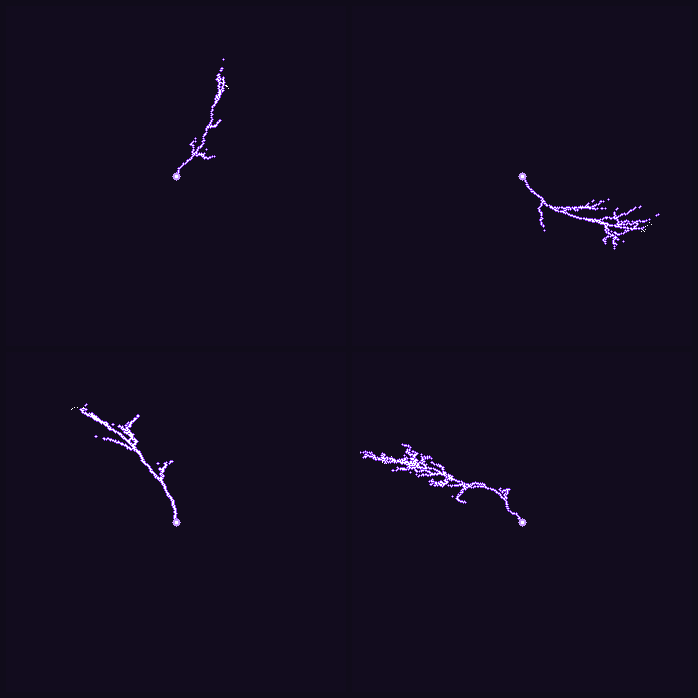
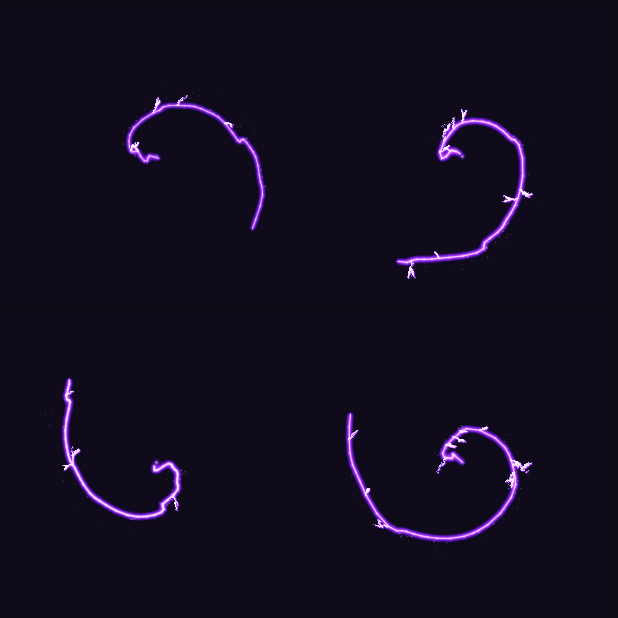
Arcane whip: organic coiling electric-fire whip (purple), continuous magical motion

diff --git a/lightning-arcane.html b/lightning-arcane.html
@@ -3,152 +3,122 @@
 <head>
 <meta charset="utf-8" />
 <meta name="viewport" content="width=device-width, initial-scale=1" />
-<title>Arcane Lightning — White/Purple Circular | pixel-art-meta</title>
+<title>Arcane Whip — Purple Electric Fire | pixel-art-meta</title>
 <style>
   html,body{margin:0;min-height:100%;color:#c9b2e8;font:13px ui-monospace,Menlo,Consolas,monospace;
-    background:#14101f;
+    background:#120c1e;
     background-image:
-      linear-gradient(45deg,#0f0b18 25%,transparent 25%,transparent 75%,#0f0b18 75%),
-      linear-gradient(45deg,#0f0b18 25%,transparent 25%,transparent 75%,#0f0b18 75%);
+      linear-gradient(45deg,#0e0918 25%,transparent 25%,transparent 75%,#0e0918 75%),
+      linear-gradient(45deg,#0e0918 25%,transparent 25%,transparent 75%,#0e0918 75%);
     background-size:24px 24px; background-position:0 0,12px 12px;}
   h1{font-size:15px;color:#efe4ff;text-align:center;margin:16px 0 2px}
   p.sub{text-align:center;margin:0 0 10px;color:#8f7ca8}
   .row{display:flex;gap:14px;justify-content:center;align-items:flex-start;flex-wrap:wrap;padding:6px 14px 24px}
   .cell{display:flex;flex-direction:column;align-items:center;gap:6px}
-  canvas{ image-rendering:pixelated; image-rendering:crisp-edges; height:62vh; width:auto;
-    background:rgba(180,150,255,.04); outline:1px solid rgba(200,160,255,.14); border-radius:3px; }
+  canvas{ image-rendering:pixelated; image-rendering:crisp-edges; height:60vh; width:auto;
+    outline:1px solid rgba(200,160,255,.14); border-radius:3px; }
   .lab{color:#d6b8ff;letter-spacing:1px}
   .lab b{color:#fff}
 </style>
 </head>
 <body>
-  <h1>ARCANE LIGHTNING — WHITE / PURPLE · CIRCULAR</h1>
-  <p class="sub">energy core charges &rarr; bolts erupt &amp; rotate around it (magical swirl) · animated tendrils · re-strikes &amp; fades</p>
+  <h1>ARCANE WHIP — PURPLE ELECTRIC FIRE</h1>
+  <p class="sub">a living whip of electricity coils &amp; whips around the core, organically — like a wizard spell</p>
   <div class="row" id="row"></div>
 
 <script>
-/* Arcane variant: same procedural bolt + animated recursive tendrils + multi-
-   stroke re-strike + tapered tips as the green set, but WHITE/PURPLE and the
-   whole bolt is transformed to erupt from a central core and ROTATE around it
-   (with a spiral curl) for a magical circular motion. */
-const GW=340, GH=340, CX=170, CY=170, UNIT=85, REFRESH=70, SCALE=56, LAND=112, MARGIN=8, CURVE=0.34, ROT=0.65;
-const BOLT=[0x8A,0x35,0xF0], BRIGHT=[0xC6,0x99,0xFF], WHITE=[0xFF,0xFF,0xFF];
+/* Arcane whip: a CONTINUOUS bolt whose shape is driven by smooth evolving
+   harmonics so it flows/undulates and coils around the core (rotating) like a
+   whip of electric fire. Crackling tendrils fork off it, embers drift away.
+   Additive purple glow + white-hot core -> tonemap -> alpha (transparent). */
+const GW=300, GH=300, CX=150, CY=150, LEN=120, MARGIN=8, REFRESH=60, N=GW*GH;
+const acc=new Float32Array(N*3);
+const PURP=[.52,.16,1], VIOLET=[.74,.45,1], MAG=[.95,.5,1], WHITE=[1,1,1];
 
 const OPTS=[
-  {id:'A', name:'Bolt',   disp:0.20, detail:6, branches:4, blen:0.34, thick:1},
-  {id:'B', name:'Forked', disp:0.19, detail:6, branches:8, blen:0.42, thick:1},
-  {id:'C', name:'Heavy',  disp:0.16, detail:6, branches:5, blen:0.36, thick:2},
-  {id:'D', name:'Wild',   disp:0.30, detail:7, branches:11,blen:0.34, thick:1},
-];
-const SEQ=[
-  ['ball',0.5,2],['ball',1.0,2],                 // charge (core)
-  ['burst',0.3,1],['burst',0.85,1],               // BOOM
-  ['strike',0,1],['glow',1.0,1],['empty',0,1],    // stroke 1 (fires out, rotating)
-  ['strike',0,1],['glow',1.0,1],['empty',0,1],    // stroke 2 (new angle)
-  ['strike',0,1],['glow',1.0,2],                  // stroke 3
-  ['tfade',0.55,1],['tfade',0.28,1],              // tendrils fade
-  ['fade',0.5,1],['fade',0.2,1],                  // channel fades
-  ['empty',0,9],
+  {id:'A', name:'Coil',   coil:3.6, branches:5,  blen:12, disp:0.9, wob:1.0, thick:1},
+  {id:'B', name:'Lash',   coil:5.2, branches:9,  blen:15, disp:1.0, wob:1.25,thick:1},
+  {id:'C', name:'Serpent',coil:2.4, branches:4,  blen:13, disp:0.8, wob:0.9, thick:2},
+  {id:'D', name:'Storm',  coil:6.6, branches:13, blen:13, disp:1.2, wob:1.4, thick:1},
 ];
 
-/* ---- geometry ---------------------------------------------------------- */
-function displace(p0,p1,disp,detail){
-  let pts=[p0,p1];
-  for(let it=0;it<detail;it++){ const np=[];
-    for(let i=0;i<pts.length-1;i++){ const a=pts[i],b=pts[i+1]; np.push(a);
-      const mx=(a[0]+b[0])/2,my=(a[1]+b[1])/2,nx=-(b[1]-a[1]),ny=(b[0]-a[0]),nl=Math.hypot(nx,ny)||1,o=(Math.random()*2-1)*disp;
-      np.push([mx+nx/nl*o, my+ny/nl*o]); }
-    np.push(pts[pts.length-1]); pts=np; disp*=0.52; }
+function add(x,y,r,g,b){ x|=0;y|=0; if(x<MARGIN||y<MARGIN||x>=GW-MARGIN||y>=GH-MARGIN)return; const i=(y*GW+x)*3; acc[i]+=r;acc[i+1]+=g;acc[i+2]+=b; }
+function glow(cx,cy,rad,c,inten){ const x0=Math.max(0,(cx-rad)|0),x1=Math.min(GW-1,(cx+rad)|0),y0=Math.max(0,(cy-rad)|0),y1=Math.min(GH-1,(cy+rad)|0);
+  for(let y=y0;y<=y1;y++)for(let x=x0;x<=x1;x++){ const dx=x-cx,dy=y-cy,d=Math.sqrt(dx*dx+dy*dy); if(d>rad)continue; let f=1-d/rad; f*=f; add(x,y,c[0]*f*inten,c[1]*f*inten,c[2]*f*inten); } }
+
+// the flowing whip path (canvas points), evolving smoothly with time+rotation
+function whipPath(opt, t, rot){
+  const M=46, pts=[];
+  for(let i=0;i<=M;i++){ const u=i/M, r=u*LEN;
+    const a = rot + u*opt.coil                       // spiral coil that rotates
+            + 0.55*Math.sin(u*3.0 + t*1.8)           // slow organic sway
+            + 0.28*Math.sin(u*6.0 - t*1.2);
+    const tip = 0.2 + u*1.15;                         // whip harder toward the tip
+    const wob = opt.wob*( tip*(8*Math.sin(u*4.0+t*2.0) + 4*Math.sin(u*8.0-t*1.5))
+                        + 5.0*Math.sin(u*22+t*6.0) + 3.4*Math.sin(u*38-t*8.0) + 2.2*Math.sin(u*60+t*11) );  // jagged electric crackle
+    const pa = a + Math.PI/2;
+    pts.push([ CX+Math.cos(a)*r + Math.cos(pa)*wob, CY+Math.sin(a)*r + Math.sin(pa)*wob ]);
+  }
   return pts;
 }
-function line(x0,y0,x1,y1,out){
-  let dx=Math.abs(x1-x0),dy=Math.abs(y1-y0),sx=x0<x1?1:-1,sy=y0<y1?1:-1,err=dx-dy,x=x0,y=y0;
-  for(;;){ out.push([x,y]); if(x===x1&&y===y1)break; const e2=2*err; if(e2>-dy){err-=dy;x+=sx;} if(e2<dx){err+=dx;y+=sy;} }
+function drawPolyline(pts, coreC, glowC, coreW, glowR, inten){
+  for(let i=0;i<pts.length-1;i++){ const a=pts[i],b=pts[i+1],L=Math.hypot(b[0]-a[0],b[1]-a[1]),S=Math.max(1,Math.ceil(L));
+    for(let s=0;s<=S;s++){ const k=s/S, x=a[0]+(b[0]-a[0])*k, y=a[1]+(b[1]-a[1])*k;
+      glow(x,y, glowR*1.9, glowC, inten*0.20);          // soft fire haze
+      glow(x,y, glowR, glowC, inten*0.55);
+      glow(x,y, coreW, WHITE, inten*0.95); glow(x,y, coreW*0.6, coreC, inten); } }
 }
-function raster(poly){ const out=[]; for(let i=0;i<poly.length-1;i++){ const a=poly[i],b=poly[i+1],seg=[];
-  line(Math.round(a[0]),Math.round(a[1]),Math.round(b[0]),Math.round(b[1]),seg);
-  for(const p of seg){ if(!out.length||out[out.length-1][0]!==p[0]||out[out.length-1][1]!==p[1]) out.push(p); } } return out; }
 
-// recursive tendrils in LOCAL frame (origin 0,0, bolt along +Y). Regenerated each call.
-function tendrils(spinePoly, opt){
-  let out=[];
-  function grow(fromPoly, d0, detail, blen, depth){
-    const lower=Math.random()<0.5;
-    const t = lower ? 0.60+Math.random()*0.36 : 0.18+Math.random()*0.5;
-    const vi=(t*(fromPoly.length-1))|0;
-    const a=fromPoly[vi], b=fromPoly[Math.min(fromPoly.length-1,vi+1)];
-    const spread = lower ? 0.35 : 0.7;
-    const ang=Math.atan2(b[1]-a[1],b[0]-a[0]) + (Math.random()<0.5?-1:1)*(0.35+Math.random()*spread);
-    const ln=blen*LAND*(0.28+Math.random()*0.66)*(lower?1.25:1.0);
-    const poly=displace(a,[a[0]+Math.cos(ang)*ln,a[1]+Math.sin(ang)*ln], d0, Math.max(3,detail-1));
-    const raw=raster(poly);
-    for(let i=0;i<raw.length;i++){ const u=raw.length>1? i/(raw.length-1):0;
-      if(u>0.5 && Math.random() < (u-0.5)/0.5*0.9) continue; out.push(raw[i]); }   // TAPER tips
-    if(depth>0){ const sub=1+(Math.random()*2|0); for(let i=0;i<sub;i++) if(Math.random()<0.7) grow(poly,d0*0.7,detail-1,blen*0.62,depth-1); }
+// crackling tendrils forking off a canvas-space path (regenerated each call)
+function tendrils(path, opt){
+  const out=[]; const disp=opt.disp;
+  function grow(px,py, ang, len, depth){
+    let pts=[[px,py],[px+Math.cos(ang)*len, py+Math.sin(ang)*len]];
+    for(let it=0;it<5;it++){ const np=[];
+      for(let i=0;i<pts.length-1;i++){ const a=pts[i],b=pts[i+1]; np.push(a);
+        const mx=(a[0]+b[0])/2,my=(a[1]+b[1])/2,nx=-(b[1]-a[1]),ny=(b[0]-a[0]),nl=Math.hypot(nx,ny)||1,o=(Math.random()*2-1)*disp*(len/12);
+        np.push([mx+nx/nl*o,my+ny/nl*o]); }
+      np.push(pts[pts.length-1]); pts=np; disp; }
+    // taper the tip
+    const raw=[]; for(let i=0;i<pts.length-1;i++){ const a=pts[i],b=pts[i+1],L=Math.hypot(b[0]-a[0],b[1]-a[1]),S=Math.max(1,Math.ceil(L));
+      for(let s=0;s<=S;s++){ const k=s/S; raw.push([a[0]+(b[0]-a[0])*k,a[1]+(b[1]-a[1])*k]); } }
+    for(let i=0;i<raw.length;i++){ const u=raw.length>1?i/(raw.length-1):0; if(u>0.5&&Math.random()<(u-0.5)/0.5*0.9)continue; out.push(raw[i]); }
+    if(depth>0){ const nb=1+(Math.random()*2|0); for(let i=0;i<nb;i++) if(Math.random()<0.6){ const tp=pts[(0.5*pts.length)|0]; grow(tp[0],tp[1], ang+(Math.random()*2-1)*1.0, len*0.6, depth-1); } }
   }
-  const disp0=SCALE*opt.disp;
-  for(let bI=0;bI<opt.branches;bI++) grow(spinePoly, disp0*0.6, opt.detail, opt.blen, 1);
-  if(opt.thick>=2) out=out.concat(out.map(p=>[p[0]+1,p[1]]));
+  for(let b=0;b<opt.branches;b++){ const vi=6+((path.length-8)*Math.random())|0; const p=path[vi], q=path[Math.min(path.length-1,vi+1)];
+    const base=Math.atan2(q[1]-p[1],q[0]-p[0]); const ang=base+(Math.random()<0.5?-1:1)*(0.5+Math.random()*0.8);
+    grow(p[0],p[1], ang, opt.blen*(0.5+Math.random()*1.0), 1); }
   return out;
 }
-function edges(pts, rad){ const s=new Set(pts.map(p=>p[0]+','+p[1])), out=new Set(), res=[];
-  for(const [x,y] of pts) for(let dx=-rad;dx<=rad;dx++) for(let dy=-rad;dy<=rad;dy++){
-    if((dx||dy)===0||Math.abs(dx)+Math.abs(dy)>rad) continue; const k=(x+dx)+','+(y+dy);
-    if(!s.has(k)&&!out.has(k)){ out.add(k); res.push([x+dx,y+dy]); } } return res; }
 
-/* ---- one strike (canvas-free core) ------------------------------------ */
 function makeStrike(opt){
-  const buf=new Uint8ClampedArray(GW*GH*4);
-  let spinePoly, spine, spray, tend=[], idx=0, stepStart=0, lastGen=-1e9, strokeAngle=Math.random()*6.283, drawTheta=0;
-  function newStroke(){
-    strokeAngle += 0.8;                                       // each stroke fires at a new angle
-    const len=LAND+(Math.random()*44-18), exLocal=(Math.random()*18-9), disp0=SCALE*opt.disp;
-    spinePoly=displace([0,0],[exLocal,len],disp0,opt.detail);
-    let s=raster(spinePoly); if(opt.thick>=2) s=s.concat(s.map(p=>[p[0]+1,p[1]]));
-    spine=s;
-    spray=[]; const ns=8+(Math.random()*6|0);
-    for(let i=0;i<ns;i++){ const a=Math.random()*Math.PI, r=1+Math.random()*6; spray.push([exLocal+Math.cos(a)*r*1.3, len+Math.abs(Math.sin(a))*r*0.7]); }
-    tend=tendrils(spinePoly,opt);
-  }
-  // transform a LOCAL point: spiral-curl bend, then rotate by drawTheta about the core
-  function T(p){ let lx=p[0], ly=p[1];
-    lx += CURVE*(ly*ly)/LAND;                                 // parabolic curl -> magical spiral
-    const cs=Math.cos(drawTheta), sn=Math.sin(drawTheta);
-    return [ CX + lx*cs - ly*sn, CY + lx*sn + ly*cs ]; }
-  function set(x,y,c){ x|=0;y|=0; if(x<MARGIN||y<MARGIN||x>=GW-MARGIN||y>=GH-MARGIN)return; const i=(y*GW+x)*4; buf[i]=c[0];buf[i+1]=c[1];buf[i+2]=c[2];buf[i+3]=255; }
-  function putC(pts,c){ for(const [x,y] of pts) set(x,y,c); }          // canvas-space
-  function coreC(r){ for(let y=-r;y<=r;y++)for(let x=-r;x<=r;x++){ const d=Math.hypot(x,y); if(d<=r) set(CX+x,CY+y, d<r*0.5?WHITE:BRIGHT); } }
-  function compose(step){
-    buf.fill(0);
-    const [k,arg]=step;
-    if(k==='empty') return;
-    if(k==='ball'){ const r=3+arg*7;
-      for(let y=-r-2;y<=r+2;y++) for(let x=-r-2;x<=r+2;x++){ const d=Math.hypot(x,y);
-        if(d>r){ if(d<r+2 && Math.random()<0.3*(1-(d-r)/2)) set(CX+x,CY+y,BRIGHT); continue; }
-        if(d>r*0.8 && Math.random()<(d-r*0.8)/(r*0.2+0.01)*0.6) continue;
-        set(CX+x,CY+y, d<r*0.38?WHITE : d<r*0.72?BRIGHT : BOLT); }
-      set(CX,CY,WHITE);
-    } else if(k==='burst'){ const R=5+arg*16, th=Math.max(1,(3*(1-arg))|0)+1;
-      for(let deg=0;deg<360;deg+=3){ const a=deg*Math.PI/180;
-        for(let t=0;t<th;t++){ const rr=R-t; set(Math.round(CX+Math.cos(a)*rr),Math.round(CY+Math.sin(a)*rr), t===0?WHITE:BRIGHT); } }
-      coreC(Math.max(1,(5*(1-arg))|0));
-    } else {
-      const S=spine.map(T), Tn=tend.map(T), SP=spray.map(T), full=S.concat(Tn).concat(SP);
-      if(k==='strike'){ putC(edges(S.concat(Tn),1),BOLT); putC(full,WHITE); coreC(4); }
-      else if(k==='glow'){ putC(edges(S.concat(Tn),1),BOLT); putC(full,BRIGHT); coreC(3); }
-      else if(k==='tfade'){ putC(S,BOLT); putC(Tn.filter(()=>Math.random()<arg),BOLT); coreC(2); }
-      else if(k==='fade'){ putC(full.filter(()=>Math.random()<arg),BOLT); }
-    }
-  }
-  newStroke(); compose(SEQ[0]);
-  return { buf, advance(now){
-    if(!stepStart) stepStart=now;
-    drawTheta = strokeAngle + (now*0.001)*ROT;                // continuous magical rotation
-    const step=SEQ[idx];
-    if(step[0]==='glow' && now-lastGen>=REFRESH){ tend=tendrils(spinePoly,opt); lastGen=now; }
-    compose(step);
-    if(now-stepStart>=step[2]*UNIT){ idx++; if(idx>=SEQ.length){ idx=0; }
-      stepStart=now; if(SEQ[idx][0]==='strike') newStroke(); }
+  let tend=[], lastGen=-1e9, embers=[], phase=Math.random()*6.283;
+  const out=new Uint8ClampedArray(N*4);
+  return { out, advance(now){
+    const t=now*0.001 + phase, rot=t*0.5;
+    acc.fill(0);
+    const path=whipPath(opt,t,rot);
+    // core (magic origin) — pulsing
+    const pulse=0.6+0.4*Math.sin(t*3);
+    glow(CX,CY, 10, PURP, 0.5*pulse); glow(CX,CY,5,VIOLET,0.7*pulse); glow(CX,CY,2.4,WHITE,1.1*pulse);
+    // the whip itself (bright, tapered — thinner toward tip)
+    const fl=0.8+0.2*Math.sin(t*17);
+    drawPolyline(path, MAG, PURP, opt.thick>=2?2.0:1.5, 3.7, 1.2*fl);
+    // crackling tendrils (regenerated at the crackle rate)
+    if(now-lastGen>=REFRESH){ tend=tendrils(path,opt); lastGen=now; }
+    for(const p of tend){ glow(p[0],p[1],1.9,PURP,0.5); add(p[0],p[1],WHITE[0]*0.7,WHITE[1]*0.7,WHITE[2]*0.7); }
+    // embers of electric fire drifting off the whip
+    if(embers.length<260){ for(let k=0;k<5;k++){ const pp=path[(6+Math.random()*(path.length-8))|0];
+      embers.push({x:pp[0],y:pp[1],vx:(Math.random()*2-1)*0.8,vy:(Math.random()*2-1)*0.8-0.18,life:0,max:16+Math.random()*20}); } }
+    const ne=[]; for(const e of embers){ e.life++; e.x+=e.vx; e.y+=e.vy; e.vy-=0.006; const lf=1-e.life/e.max; if(lf<=0)continue;
+      const c=lf>0.6?WHITE:lf>0.3?VIOLET:PURP; glow(e.x,e.y,1.7,c,0.6*lf); ne.push(e); }
+    embers=ne;
+    // compose: purple-weighted tonemap + alpha
+    for(let i=0;i<N;i++){ let r=acc[i*3],g=acc[i*3+1],b=acc[i*3+2];
+      r=1-Math.exp(-r*1.05); g=1-Math.exp(-g*0.8); b=1-Math.exp(-b*1.5);
+      const a=Math.min(1,Math.max(r,g,b)*1.9);
+      out[i*4]=r*255; out[i*4+1]=g*255; out[i*4+2]=b*255; out[i*4+3]=a*255; }
+    return out;
   } };
 }
 
@@ -161,7 +131,7 @@ if(typeof document!=='undefined'){
     const ctx=cvs.getContext('2d'); ctx.imageSmoothingEnabled=false;
     return {s:makeStrike(o), ctx};
   });
-  function frame(ts){ for(const o of strikes){ o.s.advance(ts); o.ctx.putImageData(new ImageData(o.s.buf,GW,GH),0,0); } requestAnimationFrame(frame); }
+  function frame(ts){ for(const o of strikes){ const buf=o.s.advance(ts); o.ctx.putImageData(new ImageData(buf,GW,GH),0,0); } requestAnimationFrame(frame); }
   requestAnimationFrame(frame);
 }
 </script>

diff --git a/index.html b/index.html
@@ -47,7 +47,7 @@
       </a>
       <a class="card" href="lightning-arcane.html">
         <img class="thumb" src="lightning-arcane-preview.png" alt="white purple circular lightning" />
-        <div class="meta"><b>Arcane — white/purple circular →</b><span>magical rotating bolts</span></div>
+        <div class="meta"><b>Arcane Whip — white/purple →</b><span>coiling electric-fire whip</span></div>
       </a>
     </div>
     <div class="dl">
@@ -64,10 +64,10 @@
     </div>
     <p style="color:var(--dim);margin:10px 0 4px">Arcane (white/purple, circular — transparent):</p>
     <div class="dl">
-      <a href="lightning-arcane-A-bolt-24fps.gif" download>arcane A</a>
-      <a href="lightning-arcane-B-forked-24fps.gif" download>arcane B</a>
-      <a href="lightning-arcane-C-heavy-24fps.gif" download>arcane C</a>
-      <a href="lightning-arcane-D-wild-24fps.gif" download>arcane D</a>
+      <a href="lightning-arcane-A-coil-24fps.gif" download>arcane · coil</a>
+      <a href="lightning-arcane-B-lash-24fps.gif" download>arcane · lash</a>
+      <a href="lightning-arcane-C-serpent-24fps.gif" download>arcane · serpent</a>
+      <a href="lightning-arcane-D-storm-24fps.gif" download>arcane · storm</a>
     </div>
 
     <h2>More demos</h2>
